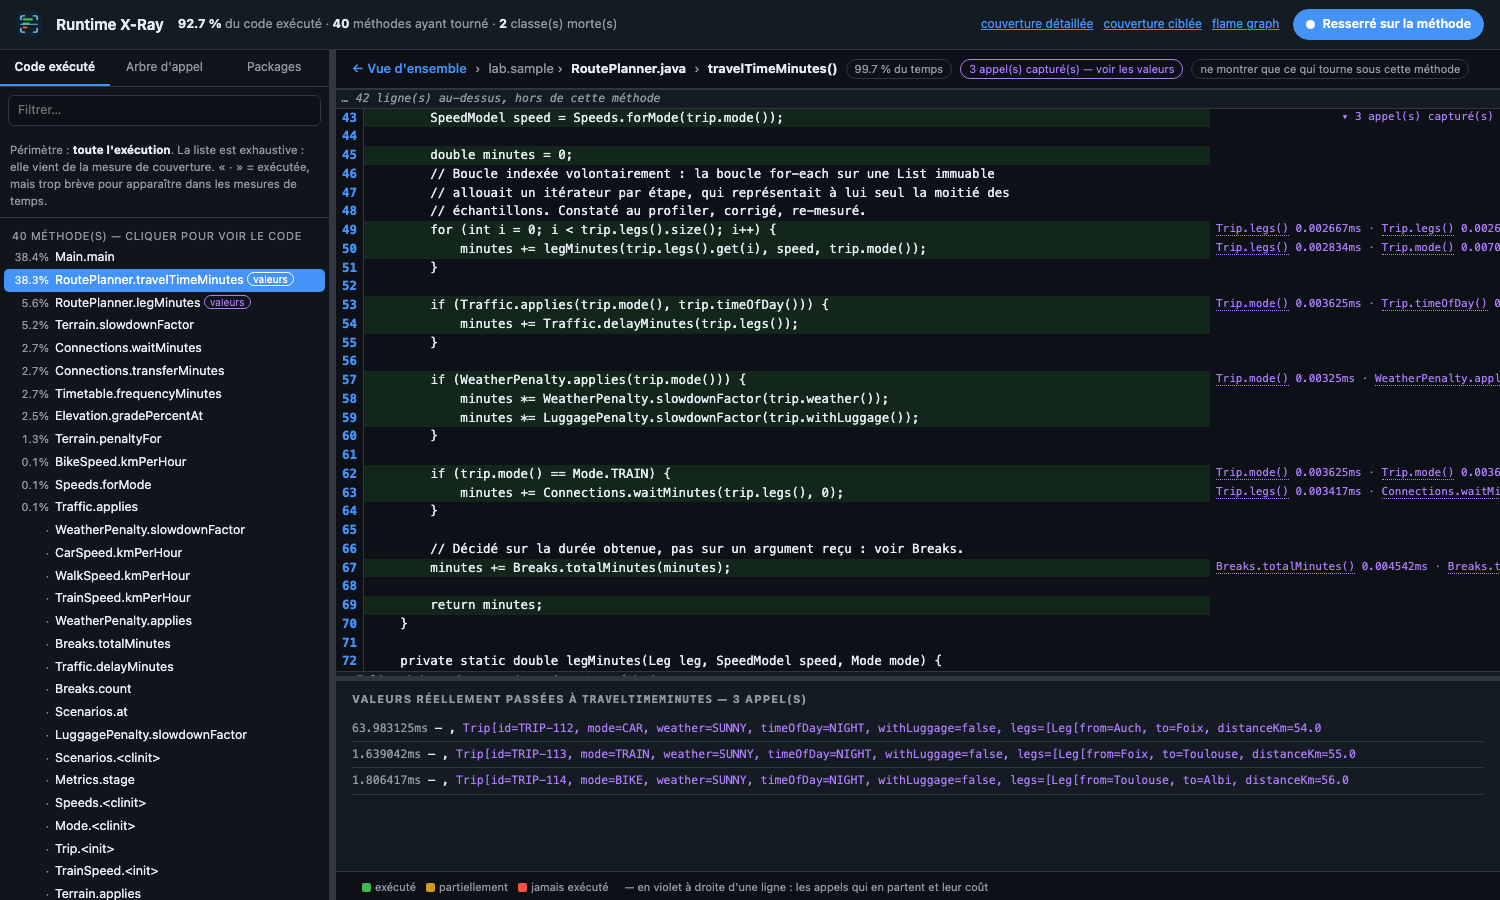
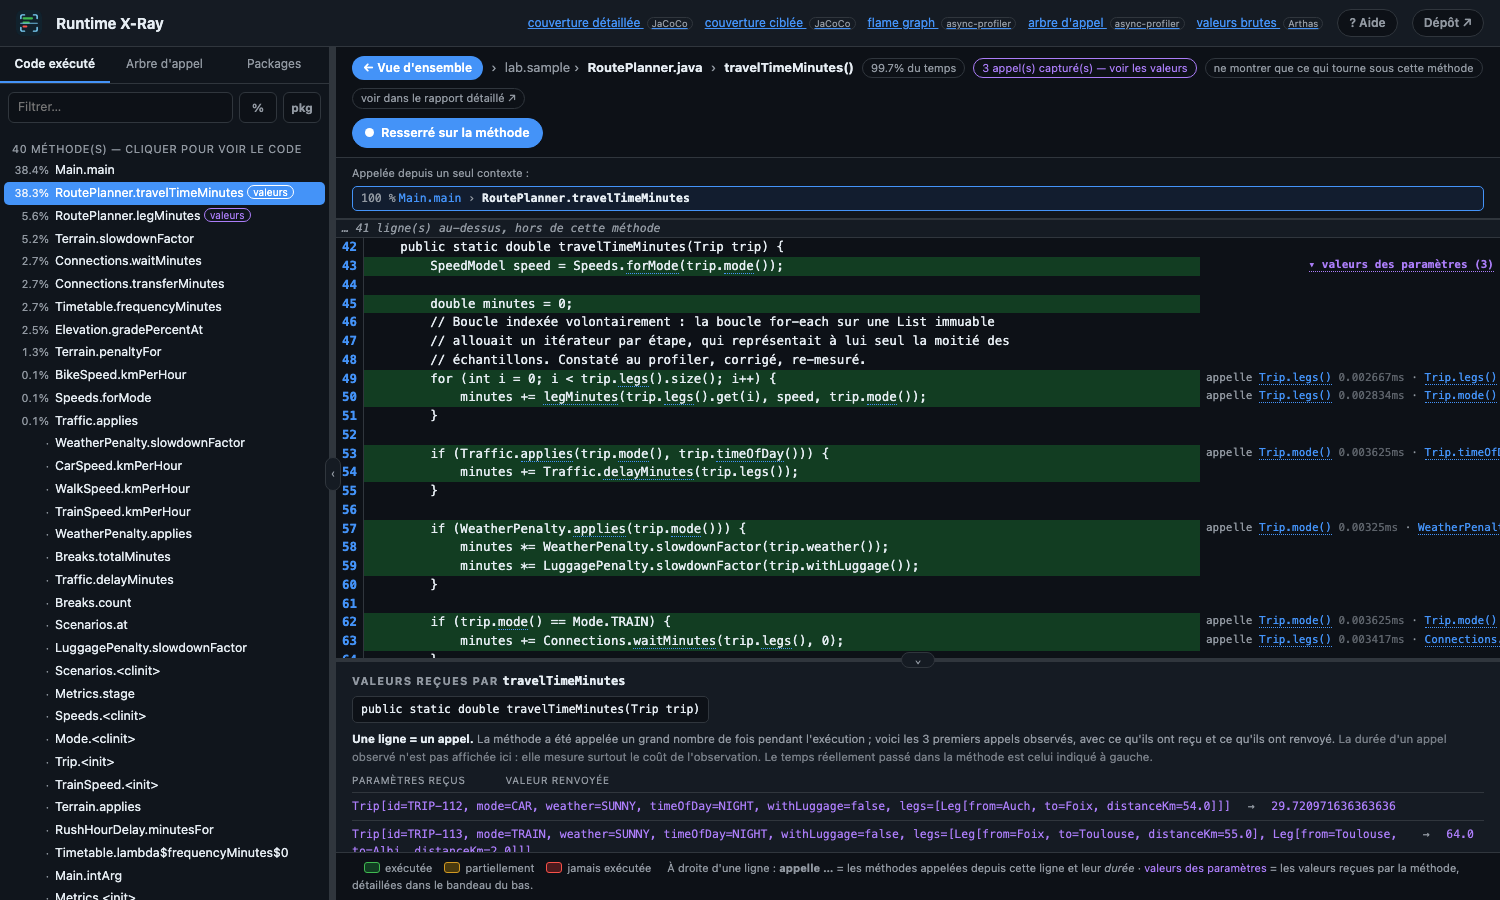
feat: follow a call by clicking the method name in the code
Reading code and following a call is the natural gesture; going back to a
list on the left to do it is not. Method names of the application are now
links inside the source view.

Ambiguity is resolved by what was actually observed on that line, falling
back to names that exist in exactly one place. Anything still ambiguous is
left unlinked — a link that lies is worse than no link.

Also moves each control next to what it acts on: the run selector belongs to
the left pane, which chooses what is browsed; the narrowing toggle belongs
above the code, which is what it changes. Tool versions in the context table
get one line each, and cross-run occurrences of a method are listed so you
can jump to the same method in another run.

diff --git a/orchestrator/src/main/resources/lab/xray/dashboard.html b/orchestrator/src/main/resources/lab/xray/dashboard.html
@@ -160,6 +160,10 @@
   td.ann a{color:var(--accent);text-decoration:none;border-bottom:1px dotted var(--accent)}
   td.ann .dur{opacity:.6}
   td.ann a.values{color:var(--violet);border-bottom-color:var(--violet);font-weight:600}
+  /* Discret par défaut : le code doit rester du code, pas une page de liens. */
+  a.callink{color:inherit;text-decoration:none;border-bottom:1px dotted var(--accent);
+            cursor:pointer}
+  a.callink:hover{color:var(--accent);background:var(--accent-soft);border-radius:3px}
   .fold{color:var(--muted);font-style:italic;padding:2px 12px;font-size:11.5px;
         background:var(--panel);border-top:1px solid var(--border);border-bottom:1px solid var(--border)}
   #values{background:var(--panel);padding:10px 16px;overflow:auto;
@@ -371,7 +375,7 @@ let AGG = computeAgg();
 })();
 
 function switchRun(i, redraw){
-  runIndex = i; R = D.runs[i]; AGG = computeAgg();
+  runIndex = i; R = D.runs[i]; AGG = computeAgg(); methodIndex = null;
   scopeFrame = null; ctxIndex = 0;
   const sel = document.getElementById("runsel");
   if (sel && !sel.hidden) sel.value = String(i);
@@ -664,6 +668,51 @@ function renderContexts(info){
   });
 }
 
+/* -------------------------------------------- appels cliquables dans le code
+   Rendre navigable le code lui-même : sur une ligne qui appelle une méthode de
+   l'application, le nom de cette méthode devient un lien. C'est le geste naturel —
+   on lit le code, on suit l'appel — et il évite de passer par la liste de gauche.
+
+   L'ambiguïté (deux classes ayant une méthode du même nom) est levée d'abord par les
+   appels RÉELLEMENT observés sur cette ligne ; à défaut, on ne lie que les noms qui
+   n'existent qu'à un seul endroit. Mieux vaut pas de lien qu'un lien qui ment. */
+let methodIndex = null;
+
+function buildMethodIndex(){
+  const index = new Map();
+  for (const [cls, info] of Object.entries(R.methods)){
+    for (const m of info.methods){
+      if (!m.covered) continue;                 // ne pas proposer du code jamais exécuté
+      if (!index.has(m.name)) index.set(m.name, []);
+      index.get(m.name).push(cls + "." + m.name);
+    }
+  }
+  return index;
+}
+
+const RESERVED = new Set(["if","for","while","switch","catch","return","new","super","this","synchronized"]);
+
+function linkifyCalls(escapedLine, lineNumber){
+  if (!methodIndex) methodIndex = buildMethodIndex();
+  // Ce que la trace a vu partir de cette ligne : l'information la plus sûre.
+  const observed = new Map();
+  for (const call of (R.trace[lineNumber] || [])){
+    if (call.frame) observed.set(call.frame.slice(call.frame.lastIndexOf(".") + 1), call.frame);
+  }
+  return escapedLine.replace(/\b([A-Za-z_$][\w$]*)(\s*\()/g, (whole, name, tail) => {
+    if (RESERVED.has(name)) return whole;
+    let frame = observed.get(name);
+    if (!frame){
+      const candidates = methodIndex.get(name);
+      if (!candidates || candidates.length !== 1) return whole;
+      frame = candidates[0];
+    }
+    if (selected && frame === selected.frame) return whole;   // ne pas se lier à soi-même
+    return '<a class="callink" href="#" data-f="' + frame + '" title="' +
+           dot(frame) + '">' + name + '</a>' + tail;
+  });
+}
+
 /* ------------------------------------------------------------ vue de code */
 function selectFrame(frame, el){
   const info = frameInfo(frame);
@@ -727,7 +776,7 @@ function draw(){
           '<a href="#" data-f="'+esc(a.frame||"")+'">'+esc(a.callee)+'</a> <span class="dur">'+esc(a.cost)+'</span>').join(" · ")
           + (all.length > 2 ? ' <span style="opacity:.7">+'+(all.length-2)+'</span>' : ''); }
     html += '<tr class="'+cls+'" id="L'+nr+'"><td class="n">'+nr+'</td><td class="c">'+
-            esc(text)+'</td><td class="ann">'+ann+'</td></tr>';
+            linkifyCalls(esc(text), nr)+'</td><td class="ann">'+ann+'</td></tr>';
   });
   if (fold) html += '<tr><td colspan="3" class="fold">… '+fold+' ligne(s) jamais exécutée(s)</td></tr>';
   if (narrow && to < src.length)
@@ -737,6 +786,11 @@ function draw(){
   const anchor = document.getElementById("L"+(info.line||1));
   if (anchor) code.scrollTop += anchor.getBoundingClientRect().top
                               - code.getBoundingClientRect().top - code.clientHeight/3;
+  code.querySelectorAll("td.c a.callink").forEach(a => a.onclick = e => {
+    e.preventDefault();
+    const t = frameInfo(a.dataset.f);
+    if (t) { ctxIndex = 0; select(t, null); }
+  });
   code.querySelectorAll("td.ann a").forEach(a => a.onclick = e => {
     e.preventDefault();
     const f = a.dataset.f;
@@ -1014,8 +1068,9 @@ function helpContent(){
         '<span style="background:var(--full);padding:1px 5px;border-radius:3px">exécutée</span> · ' +
         '<span style="background:var(--part);padding:1px 5px;border-radius:3px">partiellement</span> · ' +
         '<span style="background:var(--miss);padding:1px 5px;border-radius:3px">jamais exécutée</span>. ' +
-        'À droite de chaque ligne, les appels qui en partent et leur durée — cliquables pour ' +
-        'sauter à la méthode appelée.</li>' +
+        'À droite de chaque ligne, les appels qui en partent et leur durée. <b>Dans le code, ' +
+        'les noms de méthodes de l\'application sont cliquables</b> : un clic entre dans ' +
+        'l\'appel. Un nom n\'est lié que si sa destination est certaine.</li>' +
       '<li><b>Le bandeau du bas montre les valeurs de la méthode sélectionnée.</b> Chaque méthode ' +
         'a les siennes ; changer de méthode change le contexte, et donc les valeurs.</li>' +
       '<li><b>Resserré sur la méthode</b> (bouton en haut à droite, actif par défaut) : le centre ' +

diff --git a/runtime-xray-out/index.html b/runtime-xray-out/index.html
@@ -160,6 +160,10 @@
   td.ann a{color:var(--accent);text-decoration:none;border-bottom:1px dotted var(--accent)}
   td.ann .dur{opacity:.6}
   td.ann a.values{color:var(--violet);border-bottom-color:var(--violet);font-weight:600}
+  /* Discret par défaut : le code doit rester du code, pas une page de liens. */
+  a.callink{color:inherit;text-decoration:none;border-bottom:1px dotted var(--accent);
+            cursor:pointer}
+  a.callink:hover{color:var(--accent);background:var(--accent-soft);border-radius:3px}
   .fold{color:var(--muted);font-style:italic;padding:2px 12px;font-size:11.5px;
         background:var(--panel);border-top:1px solid var(--border);border-bottom:1px solid var(--border)}
   #values{background:var(--panel);padding:10px 16px;overflow:auto;
@@ -371,7 +375,7 @@ let AGG = computeAgg();
 })();
 
 function switchRun(i, redraw){
-  runIndex = i; R = D.runs[i]; AGG = computeAgg();
+  runIndex = i; R = D.runs[i]; AGG = computeAgg(); methodIndex = null;
   scopeFrame = null; ctxIndex = 0;
   const sel = document.getElementById("runsel");
   if (sel && !sel.hidden) sel.value = String(i);
@@ -664,6 +668,51 @@ function renderContexts(info){
   });
 }
 
+/* -------------------------------------------- appels cliquables dans le code
+   Rendre navigable le code lui-même : sur une ligne qui appelle une méthode de
+   l'application, le nom de cette méthode devient un lien. C'est le geste naturel —
+   on lit le code, on suit l'appel — et il évite de passer par la liste de gauche.
+
+   L'ambiguïté (deux classes ayant une méthode du même nom) est levée d'abord par les
+   appels RÉELLEMENT observés sur cette ligne ; à défaut, on ne lie que les noms qui
+   n'existent qu'à un seul endroit. Mieux vaut pas de lien qu'un lien qui ment. */
+let methodIndex = null;
+
+function buildMethodIndex(){
+  const index = new Map();
+  for (const [cls, info] of Object.entries(R.methods)){
+    for (const m of info.methods){
+      if (!m.covered) continue;                 // ne pas proposer du code jamais exécuté
+      if (!index.has(m.name)) index.set(m.name, []);
+      index.get(m.name).push(cls + "." + m.name);
+    }
+  }
+  return index;
+}
+
+const RESERVED = new Set(["if","for","while","switch","catch","return","new","super","this","synchronized"]);
+
+function linkifyCalls(escapedLine, lineNumber){
+  if (!methodIndex) methodIndex = buildMethodIndex();
+  // Ce que la trace a vu partir de cette ligne : l'information la plus sûre.
+  const observed = new Map();
+  for (const call of (R.trace[lineNumber] || [])){
+    if (call.frame) observed.set(call.frame.slice(call.frame.lastIndexOf(".") + 1), call.frame);
+  }
+  return escapedLine.replace(/\b([A-Za-z_$][\w$]*)(\s*\()/g, (whole, name, tail) => {
+    if (RESERVED.has(name)) return whole;
+    let frame = observed.get(name);
+    if (!frame){
+      const candidates = methodIndex.get(name);
+      if (!candidates || candidates.length !== 1) return whole;
+      frame = candidates[0];
+    }
+    if (selected && frame === selected.frame) return whole;   // ne pas se lier à soi-même
+    return '<a class="callink" href="#" data-f="' + frame + '" title="' +
+           dot(frame) + '">' + name + '</a>' + tail;
+  });
+}
+
 /* ------------------------------------------------------------ vue de code */
 function selectFrame(frame, el){
   const info = frameInfo(frame);
@@ -727,7 +776,7 @@ function draw(){
           '<a href="#" data-f="'+esc(a.frame||"")+'">'+esc(a.callee)+'</a> <span class="dur">'+esc(a.cost)+'</span>').join(" · ")
           + (all.length > 2 ? ' <span style="opacity:.7">+'+(all.length-2)+'</span>' : ''); }
     html += '<tr class="'+cls+'" id="L'+nr+'"><td class="n">'+nr+'</td><td class="c">'+
-            esc(text)+'</td><td class="ann">'+ann+'</td></tr>';
+            linkifyCalls(esc(text), nr)+'</td><td class="ann">'+ann+'</td></tr>';
   });
   if (fold) html += '<tr><td colspan="3" class="fold">… '+fold+' ligne(s) jamais exécutée(s)</td></tr>';
   if (narrow && to < src.length)
@@ -737,6 +786,11 @@ function draw(){
   const anchor = document.getElementById("L"+(info.line||1));
   if (anchor) code.scrollTop += anchor.getBoundingClientRect().top
                               - code.getBoundingClientRect().top - code.clientHeight/3;
+  code.querySelectorAll("td.c a.callink").forEach(a => a.onclick = e => {
+    e.preventDefault();
+    const t = frameInfo(a.dataset.f);
+    if (t) { ctxIndex = 0; select(t, null); }
+  });
   code.querySelectorAll("td.ann a").forEach(a => a.onclick = e => {
     e.preventDefault();
     const f = a.dataset.f;
@@ -1014,8 +1068,9 @@ function helpContent(){
         '<span style="background:var(--full);padding:1px 5px;border-radius:3px">exécutée</span> · ' +
         '<span style="background:var(--part);padding:1px 5px;border-radius:3px">partiellement</span> · ' +
         '<span style="background:var(--miss);padding:1px 5px;border-radius:3px">jamais exécutée</span>. ' +
-        'À droite de chaque ligne, les appels qui en partent et leur durée — cliquables pour ' +
-        'sauter à la méthode appelée.</li>' +
+        'À droite de chaque ligne, les appels qui en partent et leur durée. <b>Dans le code, ' +
+        'les noms de méthodes de l\'application sont cliquables</b> : un clic entre dans ' +
+        'l\'appel. Un nom n\'est lié que si sa destination est certaine.</li>' +
       '<li><b>Le bandeau du bas montre les valeurs de la méthode sélectionnée.</b> Chaque méthode ' +
         'a les siennes ; changer de méthode change le contexte, et donc les valeurs.</li>' +
       '<li><b>Resserré sur la méthode</b> (bouton en haut à droite, actif par défaut) : le centre ' +

diff --git a/tools/summary/dashboard.html b/tools/summary/dashboard.html
@@ -160,6 +160,10 @@
   td.ann a{color:var(--accent);text-decoration:none;border-bottom:1px dotted var(--accent)}
   td.ann .dur{opacity:.6}
   td.ann a.values{color:var(--violet);border-bottom-color:var(--violet);font-weight:600}
+  /* Discret par défaut : le code doit rester du code, pas une page de liens. */
+  a.callink{color:inherit;text-decoration:none;border-bottom:1px dotted var(--accent);
+            cursor:pointer}
+  a.callink:hover{color:var(--accent);background:var(--accent-soft);border-radius:3px}
   .fold{color:var(--muted);font-style:italic;padding:2px 12px;font-size:11.5px;
         background:var(--panel);border-top:1px solid var(--border);border-bottom:1px solid var(--border)}
   #values{background:var(--panel);padding:10px 16px;overflow:auto;
@@ -371,7 +375,7 @@ let AGG = computeAgg();
 })();
 
 function switchRun(i, redraw){
-  runIndex = i; R = D.runs[i]; AGG = computeAgg();
+  runIndex = i; R = D.runs[i]; AGG = computeAgg(); methodIndex = null;
   scopeFrame = null; ctxIndex = 0;
   const sel = document.getElementById("runsel");
   if (sel && !sel.hidden) sel.value = String(i);
@@ -664,6 +668,51 @@ function renderContexts(info){
   });
 }
 
+/* -------------------------------------------- appels cliquables dans le code
+   Rendre navigable le code lui-même : sur une ligne qui appelle une méthode de
+   l'application, le nom de cette méthode devient un lien. C'est le geste naturel —
+   on lit le code, on suit l'appel — et il évite de passer par la liste de gauche.
+
+   L'ambiguïté (deux classes ayant une méthode du même nom) est levée d'abord par les
+   appels RÉELLEMENT observés sur cette ligne ; à défaut, on ne lie que les noms qui
+   n'existent qu'à un seul endroit. Mieux vaut pas de lien qu'un lien qui ment. */
+let methodIndex = null;
+
+function buildMethodIndex(){
+  const index = new Map();
+  for (const [cls, info] of Object.entries(R.methods)){
+    for (const m of info.methods){
+      if (!m.covered) continue;                 // ne pas proposer du code jamais exécuté
+      if (!index.has(m.name)) index.set(m.name, []);
+      index.get(m.name).push(cls + "." + m.name);
+    }
+  }
+  return index;
+}
+
+const RESERVED = new Set(["if","for","while","switch","catch","return","new","super","this","synchronized"]);
+
+function linkifyCalls(escapedLine, lineNumber){
+  if (!methodIndex) methodIndex = buildMethodIndex();
+  // Ce que la trace a vu partir de cette ligne : l'information la plus sûre.
+  const observed = new Map();
+  for (const call of (R.trace[lineNumber] || [])){
+    if (call.frame) observed.set(call.frame.slice(call.frame.lastIndexOf(".") + 1), call.frame);
+  }
+  return escapedLine.replace(/\b([A-Za-z_$][\w$]*)(\s*\()/g, (whole, name, tail) => {
+    if (RESERVED.has(name)) return whole;
+    let frame = observed.get(name);
+    if (!frame){
+      const candidates = methodIndex.get(name);
+      if (!candidates || candidates.length !== 1) return whole;
+      frame = candidates[0];
+    }
+    if (selected && frame === selected.frame) return whole;   // ne pas se lier à soi-même
+    return '<a class="callink" href="#" data-f="' + frame + '" title="' +
+           dot(frame) + '">' + name + '</a>' + tail;
+  });
+}
+
 /* ------------------------------------------------------------ vue de code */
 function selectFrame(frame, el){
   const info = frameInfo(frame);
@@ -727,7 +776,7 @@ function draw(){
           '<a href="#" data-f="'+esc(a.frame||"")+'">'+esc(a.callee)+'</a> <span class="dur">'+esc(a.cost)+'</span>').join(" · ")
           + (all.length > 2 ? ' <span style="opacity:.7">+'+(all.length-2)+'</span>' : ''); }
     html += '<tr class="'+cls+'" id="L'+nr+'"><td class="n">'+nr+'</td><td class="c">'+
-            esc(text)+'</td><td class="ann">'+ann+'</td></tr>';
+            linkifyCalls(esc(text), nr)+'</td><td class="ann">'+ann+'</td></tr>';
   });
   if (fold) html += '<tr><td colspan="3" class="fold">… '+fold+' ligne(s) jamais exécutée(s)</td></tr>';
   if (narrow && to < src.length)
@@ -737,6 +786,11 @@ function draw(){
   const anchor = document.getElementById("L"+(info.line||1));
   if (anchor) code.scrollTop += anchor.getBoundingClientRect().top
                               - code.getBoundingClientRect().top - code.clientHeight/3;
+  code.querySelectorAll("td.c a.callink").forEach(a => a.onclick = e => {
+    e.preventDefault();
+    const t = frameInfo(a.dataset.f);
+    if (t) { ctxIndex = 0; select(t, null); }
+  });
   code.querySelectorAll("td.ann a").forEach(a => a.onclick = e => {
     e.preventDefault();
     const f = a.dataset.f;
@@ -1014,8 +1068,9 @@ function helpContent(){
         '<span style="background:var(--full);padding:1px 5px;border-radius:3px">exécutée</span> · ' +
         '<span style="background:var(--part);padding:1px 5px;border-radius:3px">partiellement</span> · ' +
         '<span style="background:var(--miss);padding:1px 5px;border-radius:3px">jamais exécutée</span>. ' +
-        'À droite de chaque ligne, les appels qui en partent et leur durée — cliquables pour ' +
-        'sauter à la méthode appelée.</li>' +
+        'À droite de chaque ligne, les appels qui en partent et leur durée. <b>Dans le code, ' +
+        'les noms de méthodes de l\'application sont cliquables</b> : un clic entre dans ' +
+        'l\'appel. Un nom n\'est lié que si sa destination est certaine.</li>' +
       '<li><b>Le bandeau du bas montre les valeurs de la méthode sélectionnée.</b> Chaque méthode ' +
         'a les siennes ; changer de méthode change le contexte, et donc les valeurs.</li>' +
       '<li><b>Resserré sur la méthode</b> (bouton en haut à droite, actif par défaut) : le centre ' +
